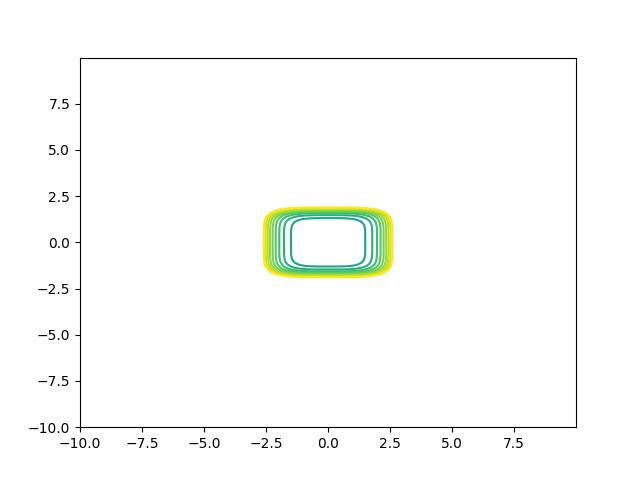
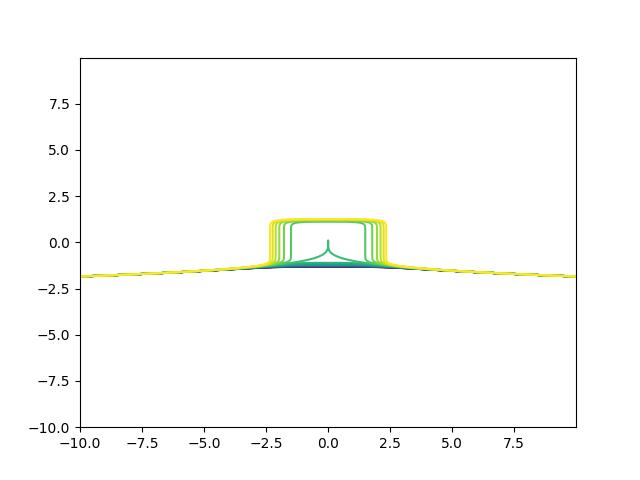
distributed_optimization: backtracking_linesearch method developed to finding the proper learning rate

Changed region(s): [[0.125, 0.4062, 0.9062, 0.5938]]

diff --git a/HW1/codes/Q6_A_2.py b/HW1/codes/Q6_A_2.py
@@ -12,6 +12,7 @@ def calculate_gradient(function,x0,n=2, iterations=None):
         grad[i]=(y1-y0)/eps
     return grad
 
+    
 def gradient_descent(function,n=2,learning_dist=0.01,x0=None,iteration=None):
     if x0==None:
         x0=np.random.normal(size=n)*5
@@ -41,7 +42,7 @@ def gradient_descent(function,n=2,learning_dist=0.01,x0=None,iteration=None):
         counter+=1
         current_x=next_x
 if __name__=='__main__':
-    function=lambda x : x[0]**4+x[1]**6
+    function=lambda x : x[0]**4+x[1]**15+15
     final_argument, final_value, history =gradient_descent(function=function,learning_dist=0.01)
     print(final_value)
     utils = utils(function,history=history)

diff --git a/HW1/codes/Q6_A_3.py b/HW1/codes/Q6_A_3.py
@@ -1,0 +1,7 @@
+import utils 
+import numpy as np
+def backtrackining_linesearch(function,x,grad,alpha=0.5,beta=0.9):
+    t=1
+    while function(x+t*grad) > function(x)+alpha*t*grad:
+       t*=beta
+    return t
